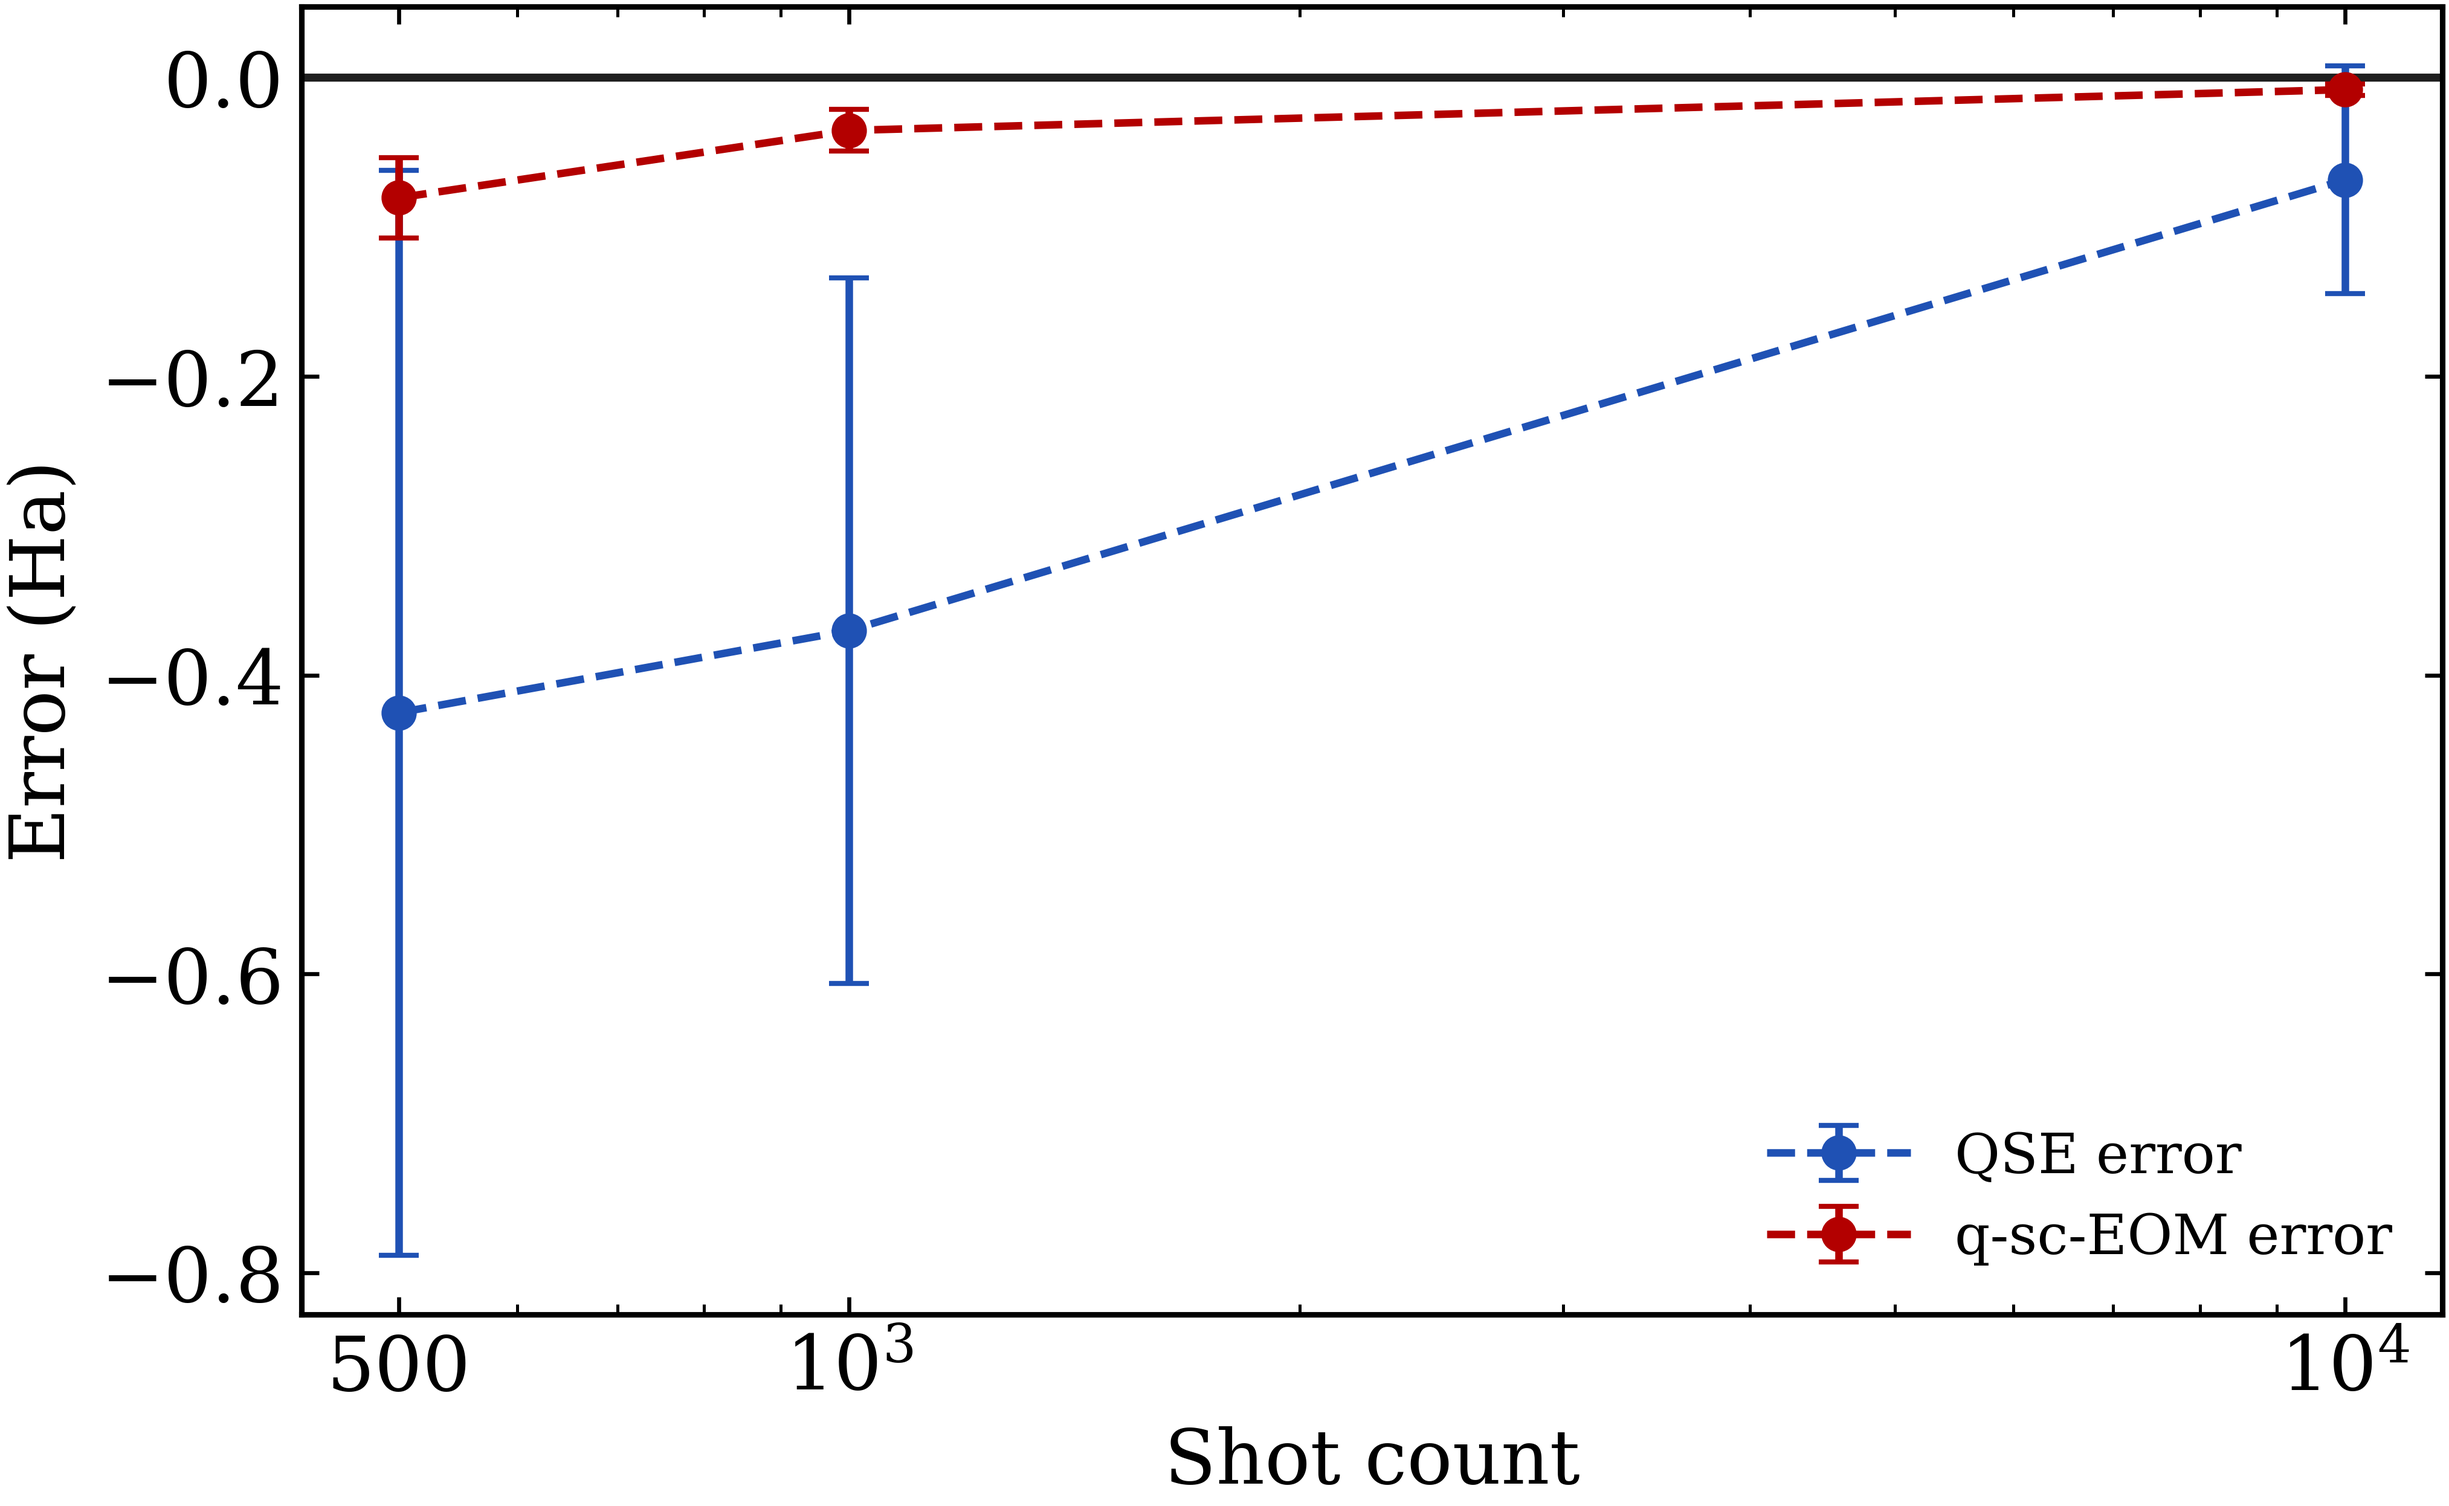
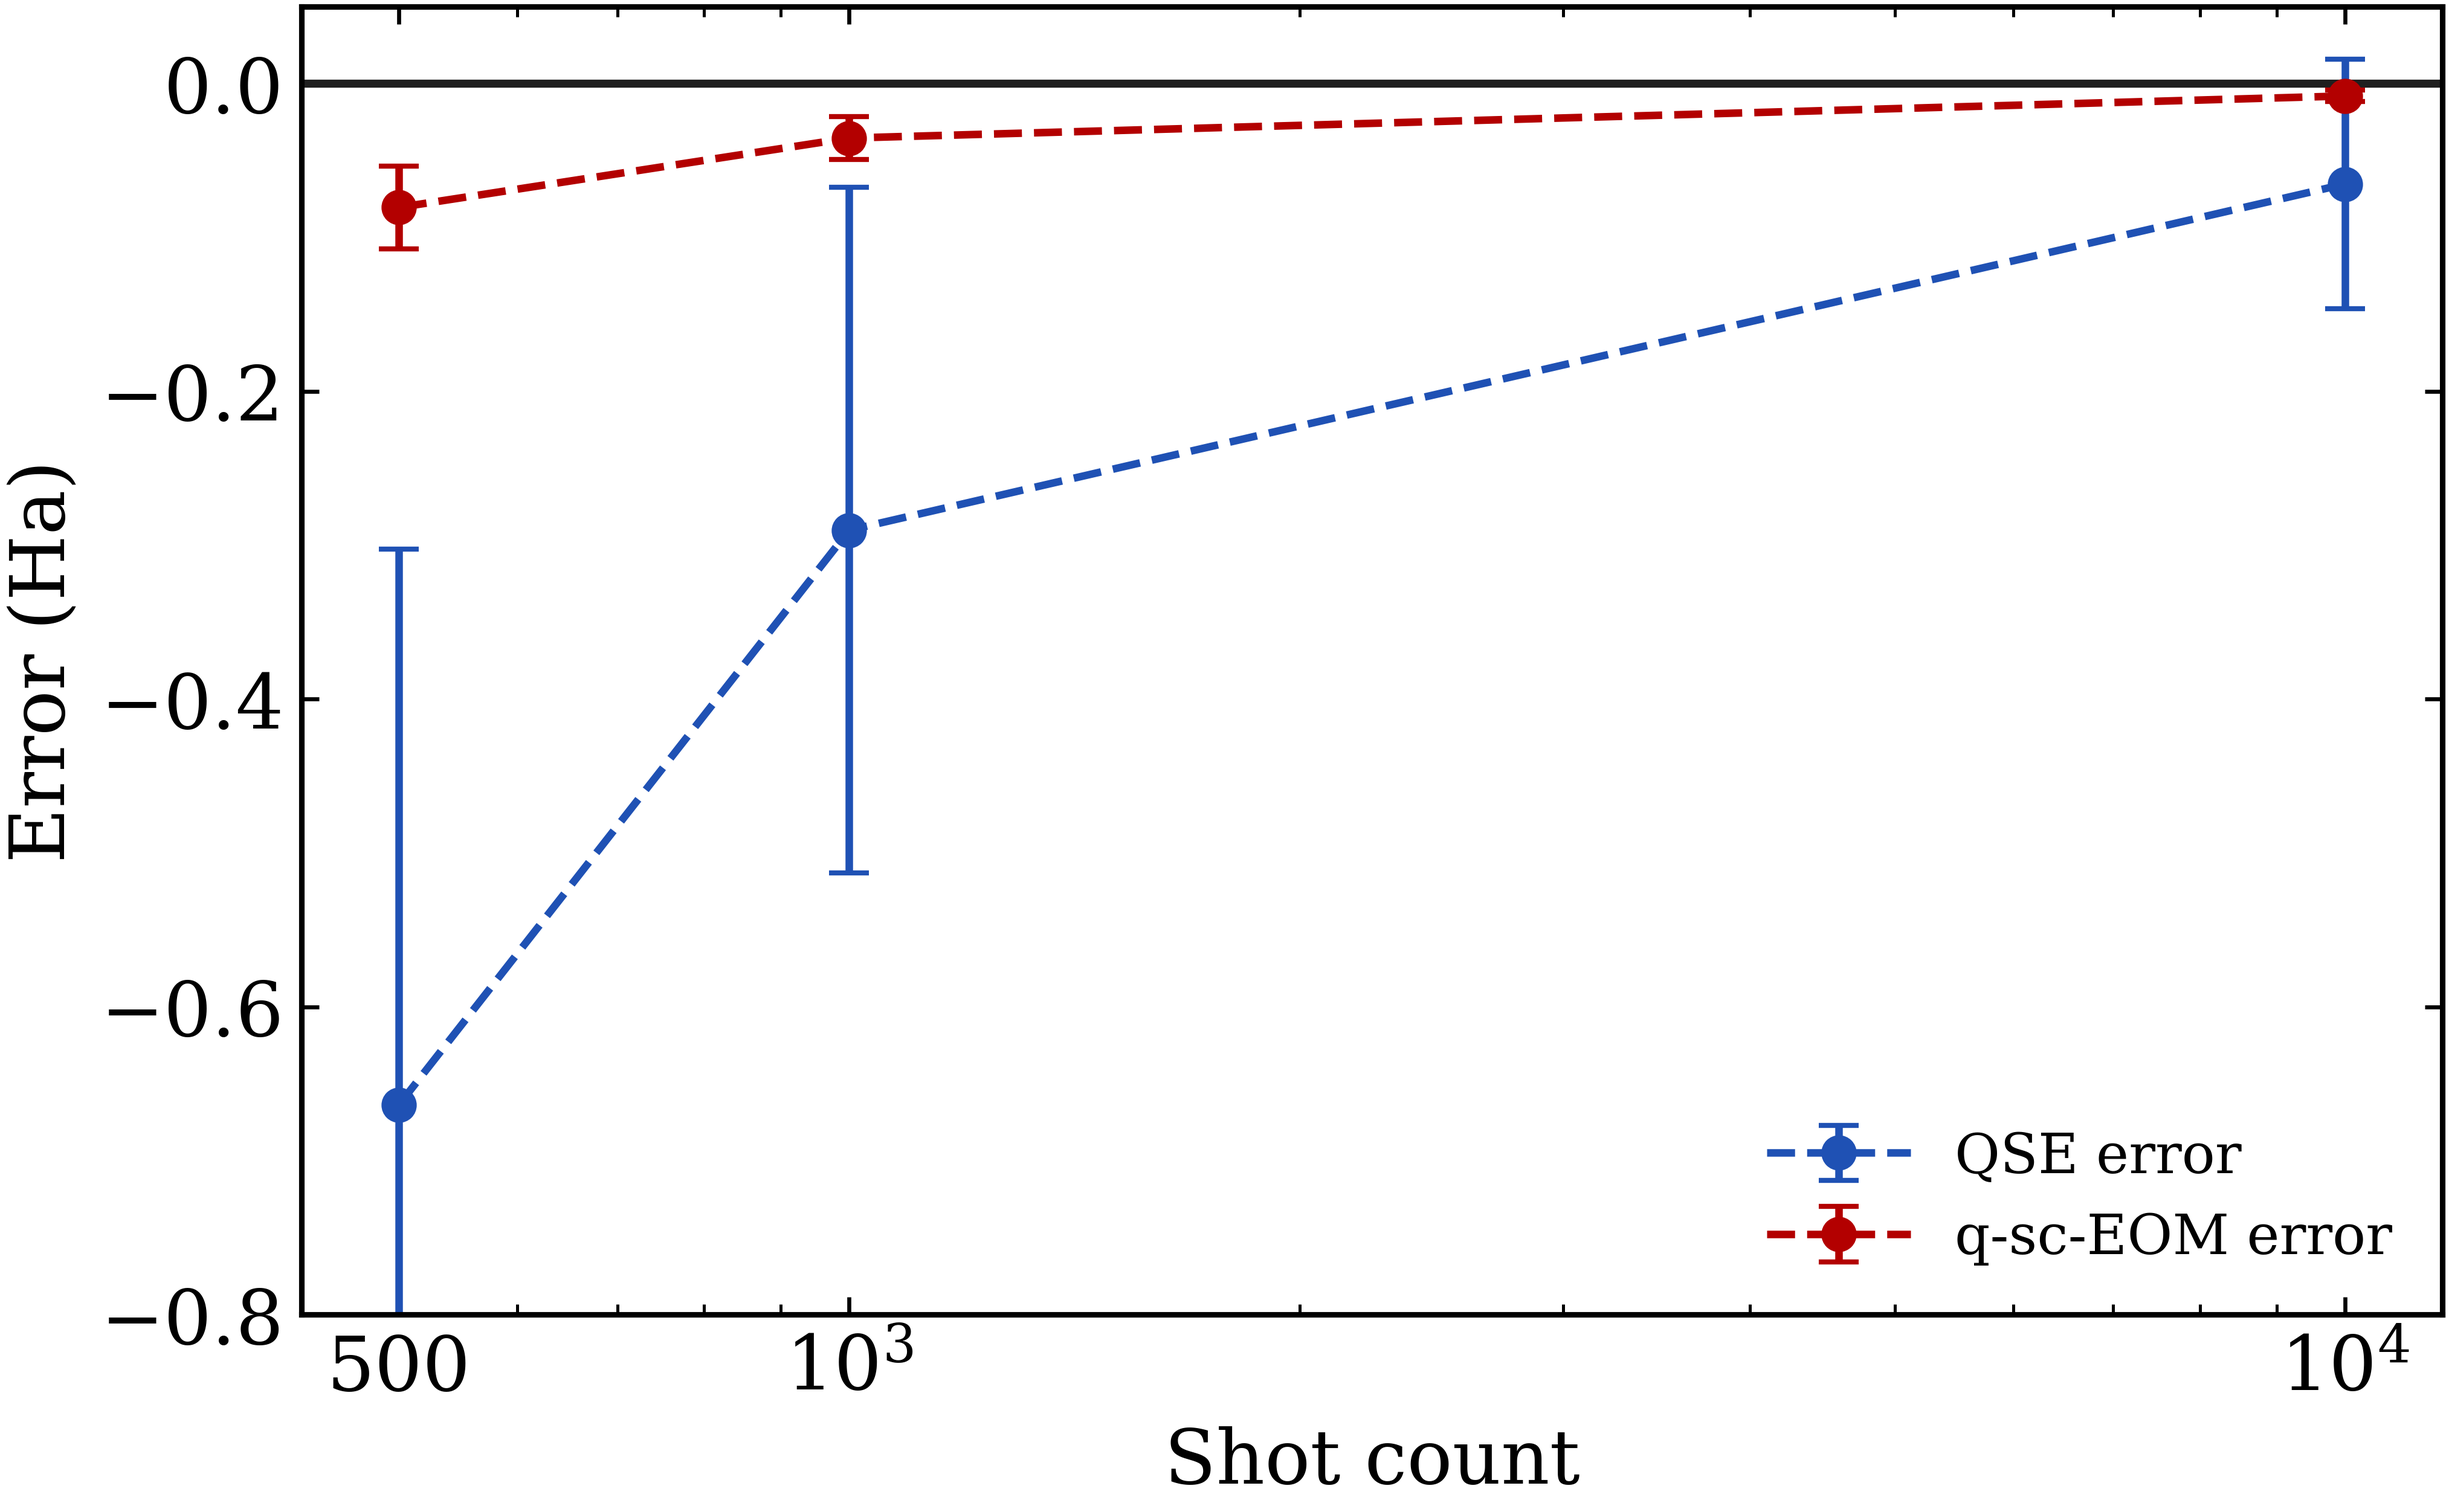
save

diff --git a/qse/plot_nh3_shot_errors.py b/qse/plot_nh3_shot_errors.py
@@ -18,6 +18,24 @@ from pathlib import Path
 _FLOAT_RE = r"[-+]?(?:\d+(?:\.\d*)?|\.\d+)(?:[eE][-+]?\d+)?"
 
 
+def _resolve_input_file(path: Path, script_dir: Path) -> Path:
+    if path.is_file():
+        return path
+
+    candidates = [
+        Path.cwd() / path,
+        script_dir / path,
+        script_dir / path.name,
+        script_dir.parent / path.name,
+        script_dir.parent / "qsceom/ground state/examples/shots" / path.name,
+    ]
+    for candidate in candidates:
+        if candidate.is_file():
+            return candidate
+
+    return path
+
+
 def _parse_shot_means(text: str) -> dict[int, float]:
     means: dict[int, float] = {}
     pattern = re.compile(rf"shots\s*=\s*(\d+)\s*:\s*mean\s*=\s*({_FLOAT_RE})")
@@ -166,7 +184,7 @@ def plot_errors(
         ax.set_xlabel("Shot count")
         ax.set_ylabel("Error (Ha)")
         ax.legend(loc="best", handlelength=2.6)
-
+        ax.set_ylim(-0.8, 0.05)
         output_path.parent.mkdir(parents=True, exist_ok=True)
         fig.savefig(output_path, dpi=600, bbox_inches="tight", pad_inches=0.02)
         plt.close(fig)
@@ -182,28 +200,33 @@ def main() -> None:
     parser.add_argument(
         "--nh3-file",
         type=Path,
-        default=Path(__file__).resolve().with_name("nh3_qse_shots.txt"),
+        default=Path("nh3_qse_shots.txt"),
         help="Path to NH3 QSE shot report text file.",
     )
     parser.add_argument(
         "--nh3qsceom-file",
         type=Path,
-        default=Path(
-            "qsceom/ground state/examples/shots/nh3_qsceom_shots.txt"
-        ),
+        default=Path("nh3_qsceom_shots.txt"),
         help="Path to NH3 QSC-EOM shot report text file.",
     )
     parser.add_argument(
         "--output",
         type=Path,
-        default=Path(__file__).resolve().with_name("nh3_shots_error_plot.png"),
+        default=Path(__file__).resolve().with_name("nh3_shots_error_.png"),
         help="Output image path for combined error plot.",
     )
     args = parser.parse_args()
 
+    script_dir = Path(__file__).resolve().parent
+    nh3_file = _resolve_input_file(args.nh3_file, script_dir)
+    nh3qsceom_file = _resolve_input_file(args.nh3qsceom_file, script_dir)
+    if not nh3_file.is_file():
+        raise FileNotFoundError(f"NH3 report not found: {nh3_file}")
+    if not nh3qsceom_file.is_file():
+        raise FileNotFoundError(f"NH3 QSC-EOM report not found: {nh3qsceom_file}")
 
-    nh3_errors, nh3_ref, nh3_variances = parse_report_errors(args.nh3_file)
-    nh3qsceom_errors, nh3qsceom_ref, nh3qsceom_variances = parse_report_errors(args.nh3qsceom_file)
+    nh3_errors, nh3_ref, nh3_variances = parse_report_errors(nh3_file)
+    nh3qsceom_errors, nh3qsceom_ref, nh3qsceom_variances = parse_report_errors(nh3qsceom_file)
     plot_errors(
         nh3_errors=nh3_errors,
         nh3_variances=nh3_variances,

diff --git a/qsceom/ground state/examples/H4/run_h4.py b/qsceom/ground state/examples/H4/run_h4.py
@@ -373,12 +373,20 @@ def _plot_metrics(
         #ax1.grid(True, which="minor", alpha=0.12, linewidth=0.4)
 
         has_positive = False
-        for series in (adapt_errors, qsceom_errors, adapt_max_gradients):
+        for series in (adapt_errors, qsceom_errors):
             if any(math.isfinite(float(v)) and float(v) > 0.0 for v in series):
                 has_positive = True
                 break
         if has_positive:
             ax1.set_yscale("log")
+
+        ax2 = ax1.twinx()
+        ax2.set_ylabel("ADAPT max gradient")
+        has_positive_grad = any(
+            math.isfinite(float(v)) and float(v) > 0.0 for v in adapt_max_gradients
+        )
+        if has_positive_grad:
+            ax2.set_yscale("log")
 
         lines = []
         labels = []
@@ -409,9 +417,9 @@ def _plot_metrics(
             lines.append(line)
             labels.append(line.get_label())
 
-        x, y = _finite_xy(iterations, adapt_max_gradients, positive_only=has_positive)
+        x, y = _finite_xy(iterations, adapt_max_gradients, positive_only=has_positive_grad)
         if y:
-            line = ax1.plot(
+            line = ax2.plot(
                 x,
                 y,
                 color="#466964",
